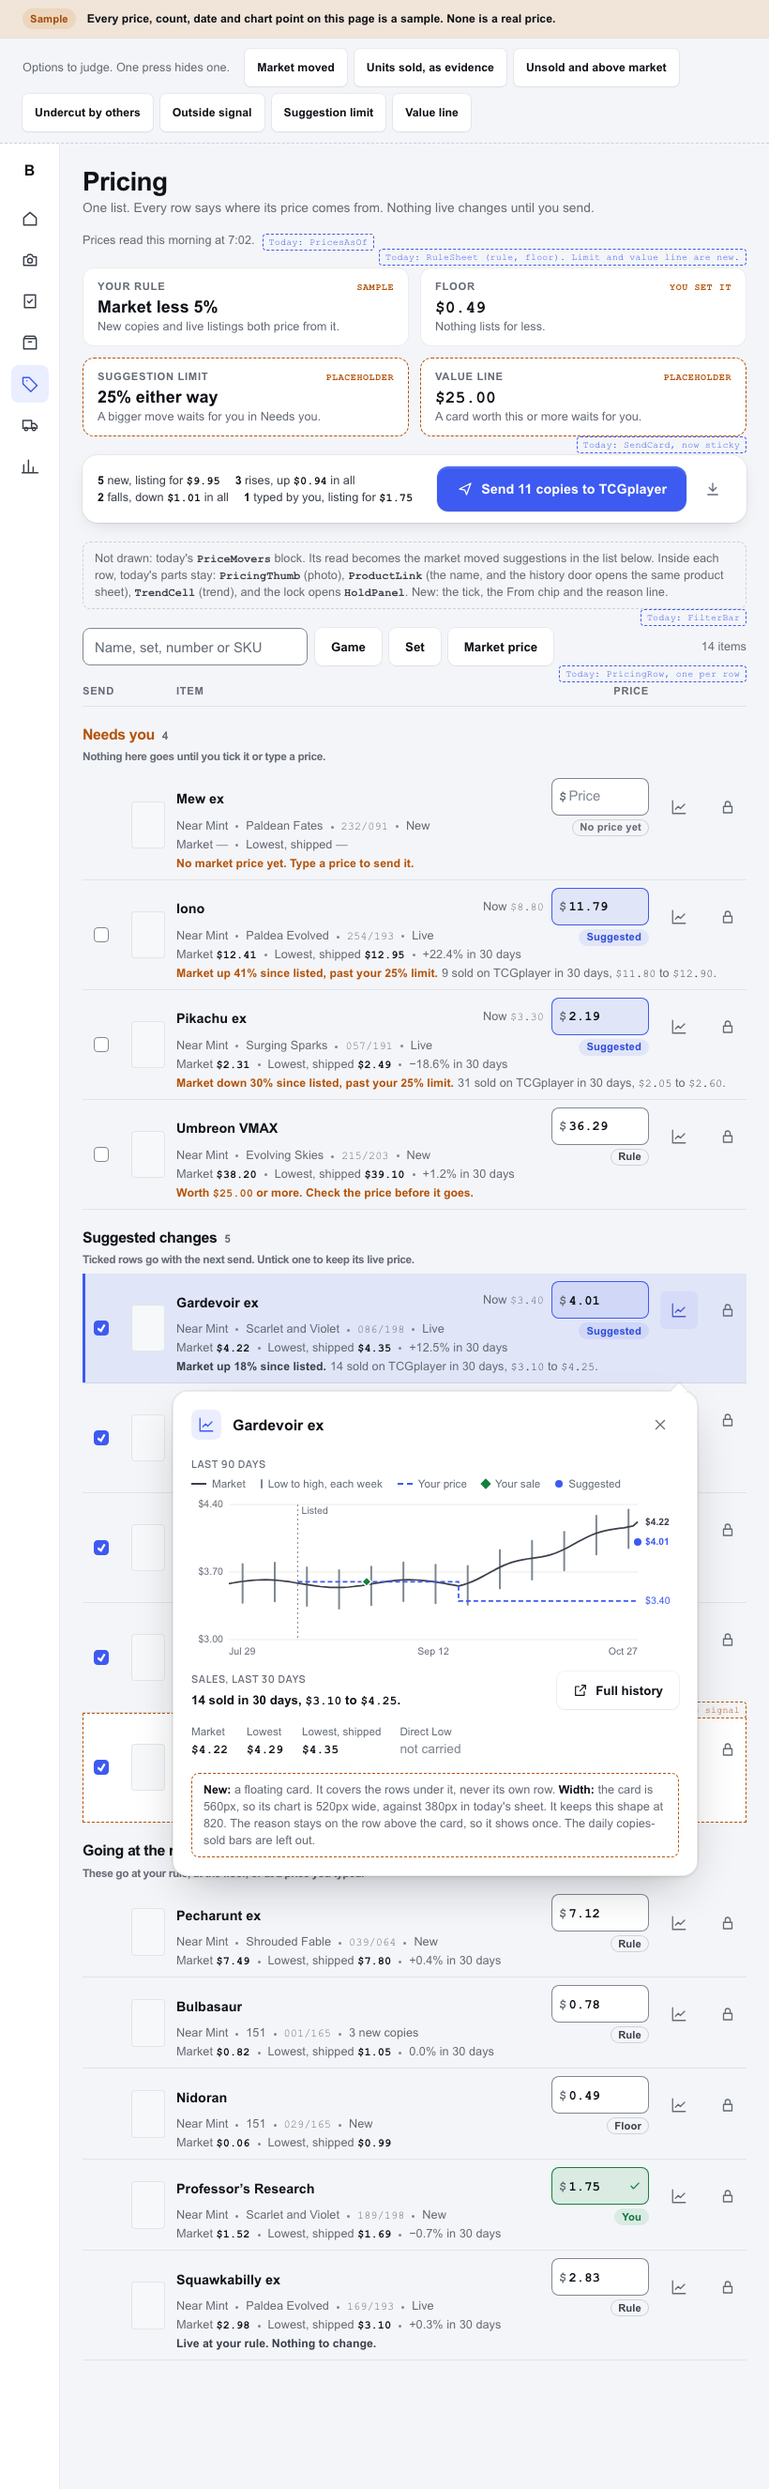
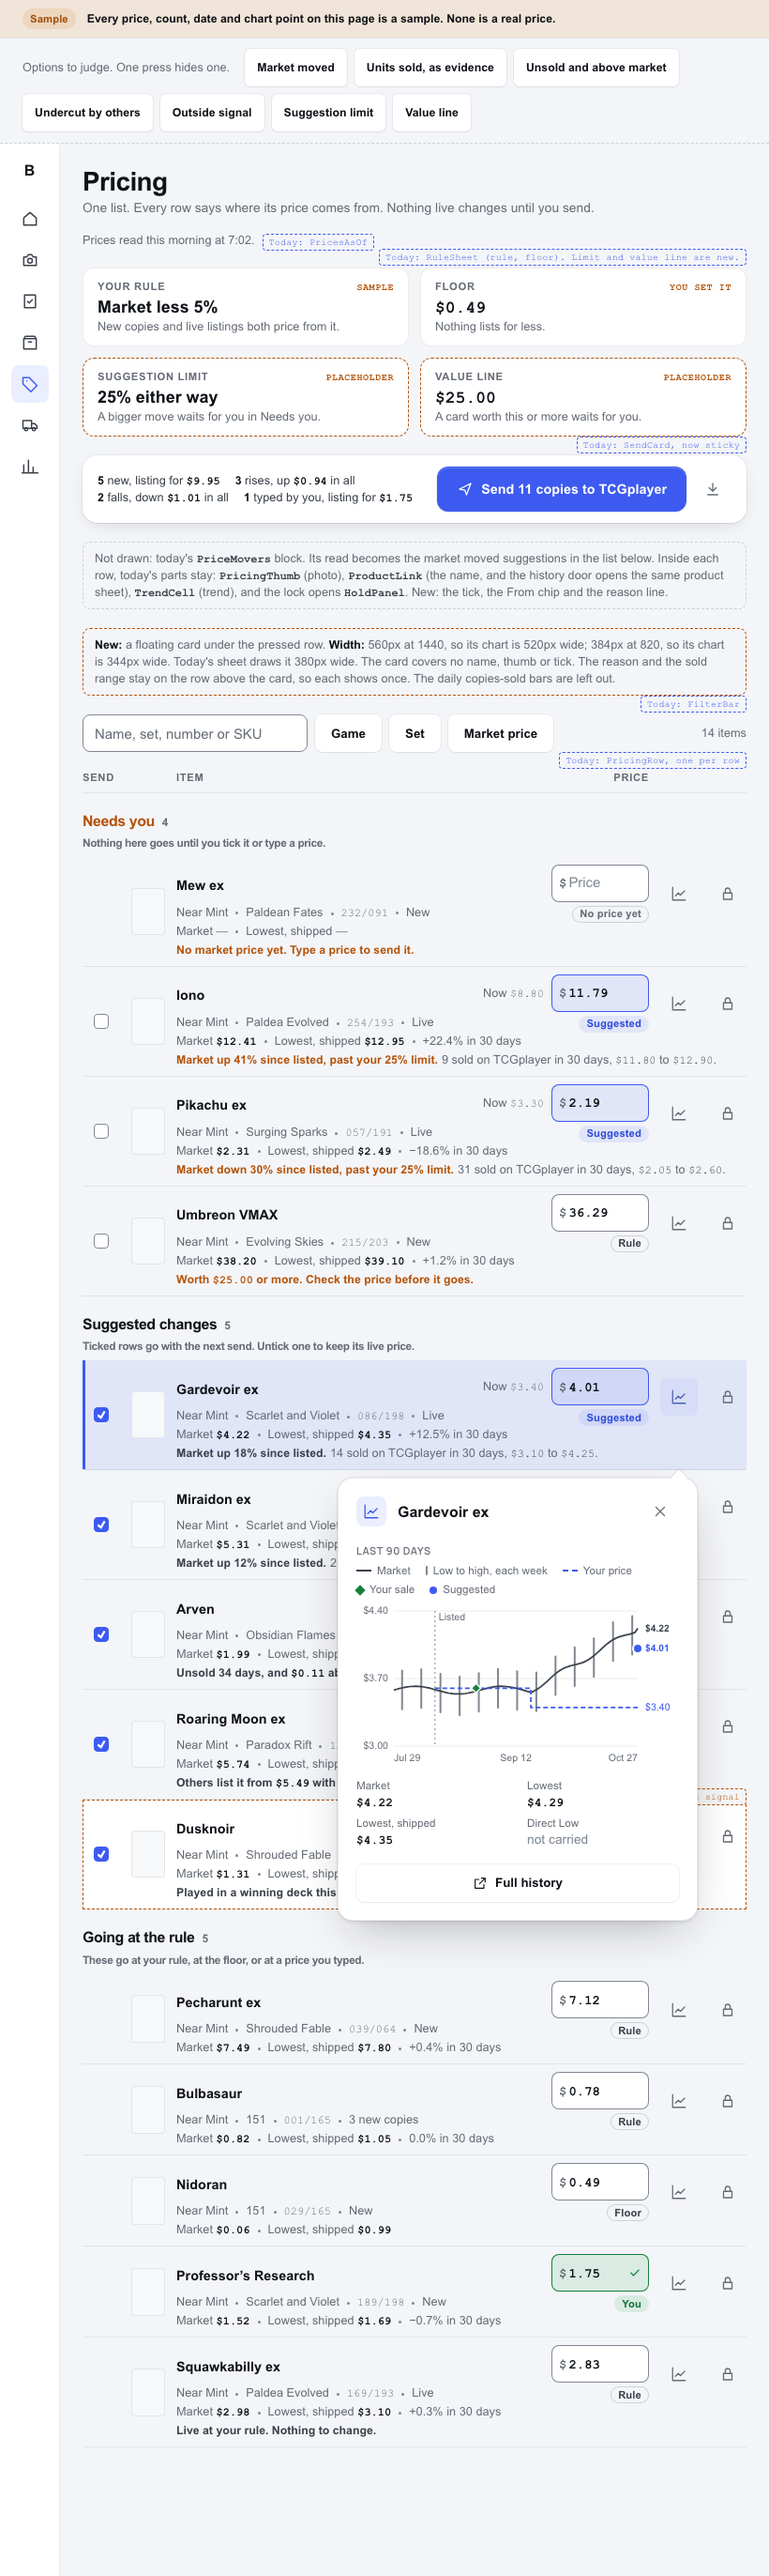
design: floating card history, round 2 fixes
Done: the card is 384px at 820 and covers no name, thumb, tick or heading, the sold range
shows once on the row, the width note sits outside the card, focus moves in and back, and
the notes name what the card covers at each width.
Next: the owner picks one of the four options.

diff --git a/docs/design/pricing-suggest/history-float.html b/docs/design/pricing-suggest/history-float.html
@@ -260,16 +260,19 @@
 
   .fl { position: absolute; z-index: 20; width: 560px; display: flex; flex-direction: column; gap: var(--bn-4);
         padding: var(--bn-4) var(--bn-5) var(--bn-5); border-radius: var(--bn-r-xl); background: var(--bn-surface);
-        box-shadow: var(--bn-shadow-3), inset 0 0 0 1px var(--bn-line); }
+        box-shadow: var(--bn-shadow-3), inset 0 0 0 1px var(--bn-line); outline: none; }
+  .frame[data-w='820'] .fl { width: 384px; }
   .fl[hidden] { display: none; }
   .fl-caret { position: absolute; top: -6px; width: 12px; height: 12px; rotate: 45deg; background: var(--bn-surface);
               box-shadow: -1px -1px 0 var(--bn-line); }
   .fl[data-side='above'] .fl-caret { top: auto; bottom: -6px; box-shadow: 1px 1px 0 var(--bn-line); }
   .fl-head { display: flex; align-items: center; gap: var(--bn-3); }
   .fl-head .hx-name { flex: 1; font-family: var(--bn-font-display); font-size: var(--bn-fs-h3); font-weight: 800; }
-  .fl-row { display: flex; align-items: flex-end; justify-content: space-between; gap: var(--bn-4); }
+  .fl-foot { display: flex; align-items: flex-end; justify-content: space-between; gap: var(--bn-4); }
   .fl .hx-facts { grid-template-columns: repeat(4, auto); justify-content: start; gap: var(--bn-1) var(--bn-5); }
-  .fl-acts .bn-btn { --btn-h: 40px; }
+  .frame[data-w='820'] .fl-foot { flex-direction: column; align-items: stretch; }
+  .frame[data-w='820'] .fl .hx-facts { grid-template-columns: repeat(2, minmax(0, 1fr)); }
+  .fl-foot .bn-btn { --btn-h: 40px; }
   body.nonotes .press-note { display: none; }
   .press-note { font-size: var(--bn-fs-sm); color: var(--bn-ink-3); border: 1px dashed var(--bn-warn);
                 border-radius: var(--bn-r); padding: var(--bn-2) var(--bn-3); }
@@ -605,26 +608,29 @@
   }
 
   /* Option 4: the history door opens a card over the list, under the pressed row. No scrim; the list stays pressable. */
-  function decorate(f) {
-    f.insertAdjacentHTML('beforeend', `<section class="fl mark" role="dialog" aria-label="Price history" data-fl hidden>
+  function decorate(f, w) {
+    const narrow = w === '820'
+    f.querySelector('.gone-note').insertAdjacentHTML('afterend', `<p class="press-note"><b>New:</b> a floating card under the pressed row.
+      <b>Width:</b> 560px at 1440, so its chart is 520px wide; 384px at 820, so its chart is 344px wide. Today's sheet draws it 380px wide.
+      The card covers no name, thumb or tick. The reason and the sold range stay on the row above the card, so each shows once. The daily copies-sold bars are left out.</p>`)
+    f.insertAdjacentHTML('beforeend', `<section class="fl mark" role="dialog" aria-label="Price history for Gardevoir ex" tabindex="-1" data-fl hidden>
       <span class="fl-caret" aria-hidden="true"></span>
-      <header class="fl-head"><span class="bn-overlay-icon">${svg('history', 18)}</span><p class="hx-name" data-fl-name>Gardevoir ex</p>
+      <header class="fl-head"><span class="bn-overlay-icon">${svg('history', 18)}</span><p class="hx-name">Gardevoir ex</p>
         <button class="bn-icon-btn iconb" type="button" aria-label="Close" data-fl-close>${svg('close', 18)}</button></header>
-      <div class="hx-block"><h3 class="hx-h">Last 90 days</h3>${hxLegend()}${hxChart(520, 170)}</div>
-      <div class="fl-row"><div class="hx-block"><h3 class="hx-h">Sales, last 30 days</h3>${hxSold()}</div>
-        <div class="fl-acts"><button class="bn-btn" type="button">${svg('external', 16)}Full history</button></div></div>
-      ${hxFacts()}
-      <p class="press-note"><b>New:</b> a floating card. It covers the rows under it, never its own row. <b>Width:</b> the card is 560px, so its chart is 520px wide, against 380px in today's sheet. It keeps this shape at 820. The reason stays on the row above the card, so it shows once. The daily copies-sold bars are left out.</p>
+      <div class="hx-block"><h3 class="hx-h">Last 90 days</h3>${hxLegend()}${hxChart(narrow ? 344 : 520, 170)}</div>
+      <div class="fl-foot">${hxFacts()}<button class="bn-btn" type="button">${svg('external', 16)}Full history</button></div>
     </section>`)
     const card = f.querySelector('[data-fl]')
     const doorOf = (row) => row.querySelector('[aria-label^="Price history"]')
     let open = null
-    /* Anchored under the row, or above it when the viewport has no room below. Right edge on the row's history door. */
+    /* Anchored under the row, or above it when the viewport has no room below. Right edge on the row's history door.
+       Focus moves into the card on open, and back to the door on close. */
     const place = (row) => {
-      if (open) { delete open.dataset.picked; delete doorOf(open).dataset.on }
+      const was = open
+      if (was) { delete was.dataset.picked; delete doorOf(was).dataset.on }
       open = row
       card.hidden = !row
-      if (!row) return
+      if (!row) { if (was) doorOf(was).focus({ preventScroll: true }); return }
       row.dataset.picked = ''
       const door = doorOf(row)
       door.dataset.on = ''
@@ -634,6 +640,7 @@
       card.style.top = `${(below ? rr.bottom + 8 : rr.top - 8 - card.offsetHeight) - fr.top}px`
       card.style.left = `${dr.right - card.offsetWidth - fr.left}px`
       card.querySelector('.fl-caret').style.left = `${card.offsetWidth - dr.width / 2 - 6}px`
+      card.focus({ preventScroll: true })
     }
     const first = [...f.querySelectorAll('.row')].find((r) => r.querySelector('.name').textContent === 'Gardevoir ex')
     document.fonts.ready.then(() => place(first))
@@ -643,7 +650,7 @@
       if (door) return place(door.closest('.row'))
       if (e.target.closest('[data-fl-close]') || !e.target.closest('[data-fl]')) place(null)
     })
-    addEventListener('keydown', (e) => { if (e.key === 'Escape') place(null) })
+    addEventListener('keydown', (e) => { if (e.key === 'Escape' && open) place(null) })
   }
 
   /* ---- build the frames ---- */

diff --git a/docs/design/pricing-suggest/history-notes.md b/docs/design/pricing-suggest/history-notes.md
@@ -9,8 +9,8 @@ All four draw the same chart: today's `ProductChart` (market line, the low-to-hi
 week, the owner's sales as diamonds), with two new marks: the owner's own asking price as a
 dashed step line from the day it was listed, and the suggestion as a dot. Each states the reason
 and the sold range, "14 sold in 30 days, $3.10 to $4.25", once. In options 1 to 3 they show in
-the history area, and the open row's own reason line steps aside. In option 4 the reason stays on
-the row. The row's 30-day trend is read off the chart's market line, so the two agree.
+the history area, and the open row's own reason line steps aside. In option 4 both stay on the
+row. The row's 30-day trend is read off the chart's market line, so the two agree.
 
 1. **Keep the sheet** (`history-sheet.html`). The history door opens today's `ProductSheet` over
    `ProductHistoryView`, 420px at the right, at 1440 and 820.
@@ -37,15 +37,21 @@ the row. The row's 30-day trend is read off the chart's market line, so the two 
      draws.
    - The Up and Down arrows move the selection. A new key binding must go in `SHORTCUTS` before
      it is done.
-4. **A card floats over the list** (`history-float.html`). The history door opens a 560px card
-   under its row, with no scrim. Its right edge lines up with the door. With no room below the
-   row, it opens above. It closes on Esc, on a press outside it, or on its close button. A press
-   on another row's history door moves it to that row. It keeps this shape at 820.
-   - Gain: the widest chart of the four, 520px against the sheet's 380px. The pressed row, its
-     price, tick and reason stay in view above the card, and the rest of the list stays
-     pressable.
-   - Loss: it covers the rows under it while it is open, including their prices and ticks. The
-     daily copies-sold bars do not fit, so only the sold sentence shows. Its reason comes from
-     the row, not from the card.
+4. **A card floats over the list** (`history-float.html`). The history door opens a card under
+   its row, with no scrim. Its right edge lines up with the door. With no room below the row, it
+   opens above. The card is 560px at 1440 and 384px at 820, so it covers no name, thumb or tick
+   at either width. Its chart is 520px wide at 1440 and 344px at 820, against 380px in today's
+   sheet. It shows the chart and the four prices. The reason and the sold range stay on the row
+   above it, so each shows once.
+   - Gain: at 1440, the widest chart of the four. The pressed row, with its price, tick, reason
+     and sold range, stays in view above the card, and the rest of the list stays pressable.
+   - Loss: it covers part of the four rows under it while it is open. At 1440 that is their
+     Lowest, Trend, Price and From columns, their history doors and locks, and the end of their
+     reason lines. At 820 it is their prices, doors and locks, and the ends of their set, price
+     and reason lines. At 820 its chart is smaller than the sheet's. The daily copies-sold bars do
+     not fit.
+   - Focus moves into the card on open, and back to the history door on close. It closes on Esc,
+     on a press outside it, or on its close button. A press on another row's history door moves it
+     to that row.
    - How it complies with D313 (nothing moves unless the person moved it): nothing in the list
-     moves. The card lies over the list, and only the press opens, moves or closes it.
+     moves. The card lies over the list, and only a press opens, moves or closes it.
